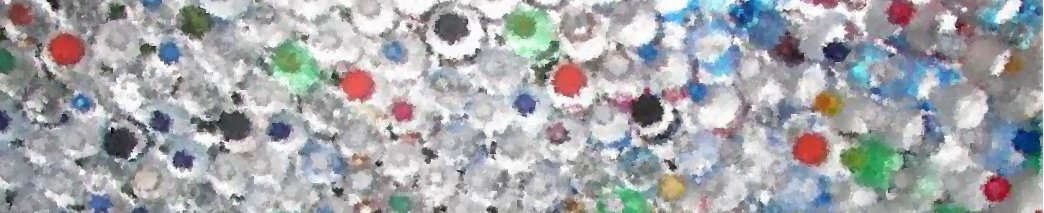
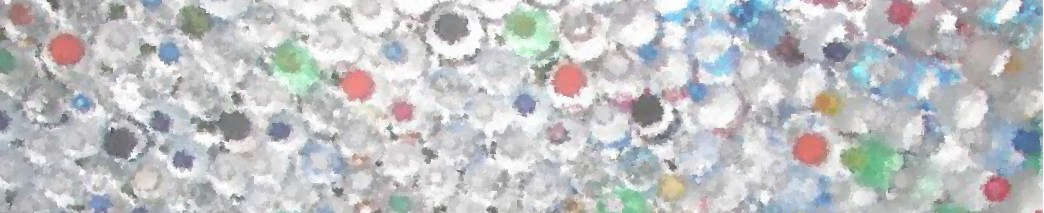
layout cover

diff --git a/app/controllers/yairs_controller.rb b/app/controllers/yairs_controller.rb
@@ -1,14 +1,14 @@
 class YairsController < ApplicationController
 
   before_filter :authorize, only: [:new, :edit, :destroy]
-  before_filter { use_cover_photo 'reps.png' }
+  before_filter { use_cover_photo 'reps.jpg' }
 
   def index
       @yair = Yair.where(field: params[:field])
       @yair = @yair.sort_by { |y| y.last_name }.paginate(page: params[:page], per_page: 20)
 
       if params[:field] == "figures"
-        use_cover_photo 'figures.png' 
+        use_cover_photo 'figures.jpg' 
       end
   end
 

diff --git a/app/controllers/home_controller.rb b/app/controllers/home_controller.rb
@@ -2,7 +2,7 @@ class HomeController < ApplicationController
 
   caches_action :index, cache_path: lambda { |e| "home-#{params[:deleted_page]}-#{params[:edited_page]}" }
 
-  before_filter { use_cover_photo 'knesset.png' }
+  before_filter { use_cover_photo 'knesset.jpg' }
 
   def index
     @deleted_posts = Post.not_empty.order(created_at: :desc).where(status: "deleted").paginate(page: params[:deleted_page], per_page: 5)

diff --git a/app/controllers/stats_controller.rb b/app/controllers/stats_controller.rb
@@ -1,7 +1,7 @@
 require 'poligaffes/stats/polistats'
 class StatsController < ApplicationController
 
-	before_filter { use_cover_photo 'stats.png' }
+	before_filter { use_cover_photo 'stats.jpg' }
 
 
   def index

diff --git a/app/controllers/about_controller.rb b/app/controllers/about_controller.rb
@@ -1,5 +1,5 @@
 class AboutController < ApplicationController
-  before_filter { use_cover_photo 'about.png' }
+  before_filter { use_cover_photo 'about.jpg' }
 
   def index
   end
